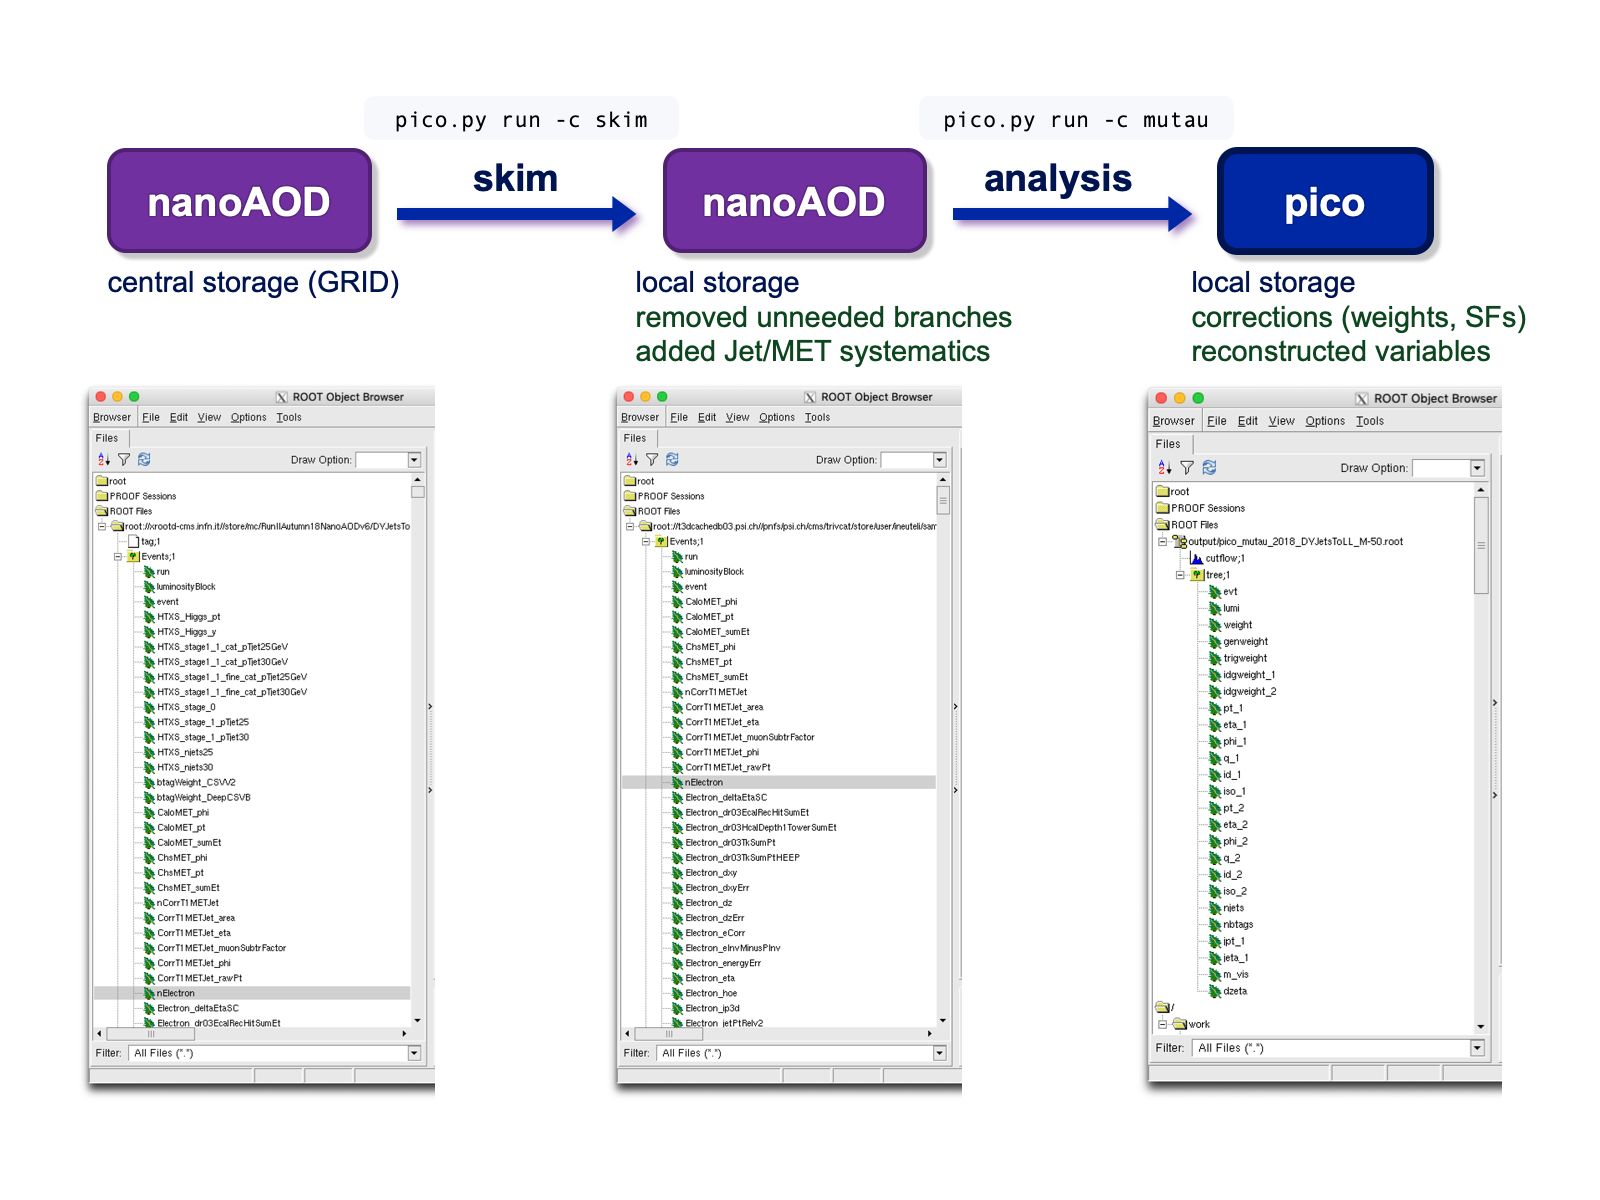
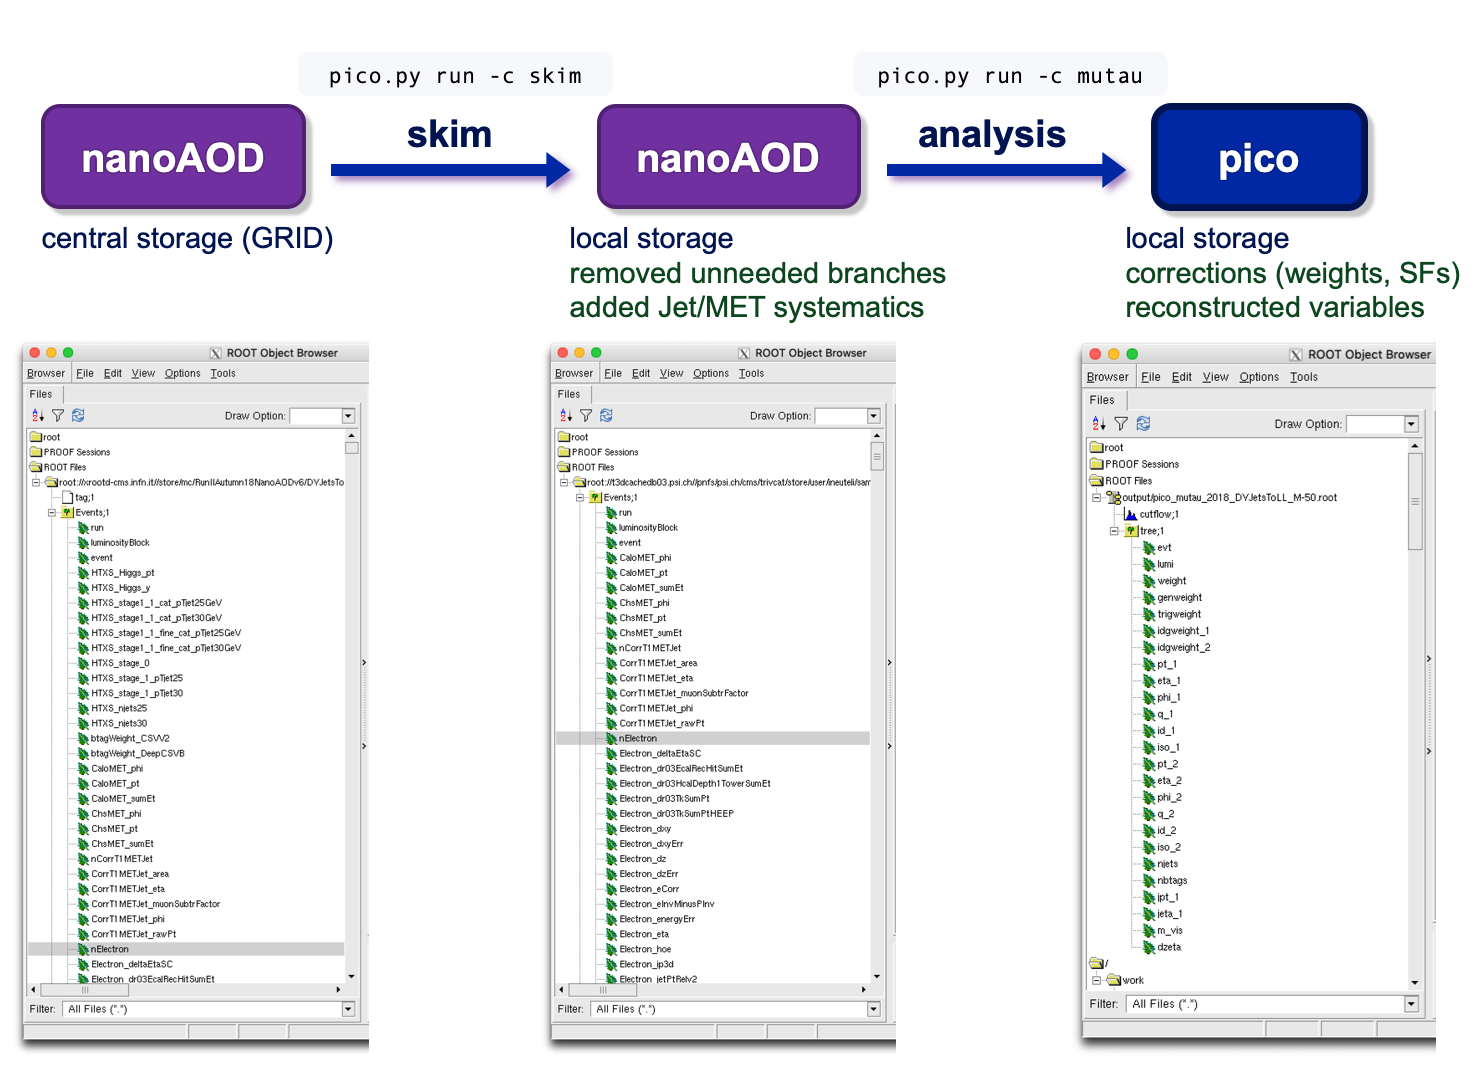
fix figures

diff --git a/PicoProducer/python/analysis/README.md b/PicoProducer/python/analysis/README.md
@@ -9,7 +9,7 @@ The analysis modules are run on nanoAOD with the [post-processors](https://githu
 for example with [`picojob.py`](../processors/skimjob.py).
 The output is a custom analysis ntuple, we refer to as the _pico_ format.
 
-#### Table of Contents  
+### Table of Contents  
 * [Run](#Run)<br>
 * [Accessing nanoAOD](#Accessing-nanoAOD)<br>
 * [Custom tree format](#Custom-tree-format)<br>
@@ -148,7 +148,9 @@ More information on data types:
 * In `ROOT`: https://root.cern.ch/doc/master/classTTree.html#addcolumnoffundamentaltypes
 * In `numpy`: https://numpy.org/devdocs/user/basics.types.html
 
-<img src="../../../docs/file_pico_mutau_simple.png" alt="Pico file of ModuleMuTauSimple" width="400"/>
+<p align="center">
+  <img src="../../../docs/file_pico_mutau_simple.png" alt="Pico file of ModuleMuTauSimple" width="700"/>
+</p>
 
 To make your life easier, you can use separate "tree producer" classes.
 For example, [`TreeProducer`](TreeProducer.py) can be subclassed as in [`TreeProducerMuTau.py`](TreeProducerMuTau.py).
@@ -204,8 +206,9 @@ class ModuleMuTau(ModuleTauPair):
     return True
 ```
 
-
-<img src="../../../docs/cutflow.png" alt="Cutflow (mutau)" width="400"/>
+<p align="center">
+  <img src="../../../docs/cutflow.png" alt="Cutflow (mutau)" width="600"/>
+</p>
 
 ## Tau pair analysis
 A set of full analysis modules for the basic study of events with a pair of tau decay candidates

diff --git a/Plotter/README.md b/Plotter/README.md
@@ -1,6 +1,6 @@
 # TauFW Plotter
 
-#### Table of Contents  
+### Table of Contents  
 * [Installation](#Installation)<br>
 * [Basic plots](#Basic-plots)<br>
 * [CMS style](#CMS-style)<br>
@@ -23,8 +23,10 @@ plot.setlegend()
 plot.saveas("plot.png")
 plots.close
 ```
-<img src="../docs/testHists_ratio_logy.png" alt="Gaussians with Plot class" width="420"/>
 
+<p align="center">
+  <img src="../docs/testHists_ratio_logy.png" alt="Gaussians with Plot class" width="420"/>
+</p>
 
 If you want to make a data-MC comparison between a data histogram `datahist` and
 a list of expected SM processes, `exphists`,
@@ -45,8 +47,8 @@ test/plotHists.py
 test/plotStacks.py
 ```
 
-<p float="middle">
-  <img src="../docs/testStacks_m_vis_ratio.png" alt="Data-MC with Stack class" width="420"/>
+<p align="center">
+  <img src="../docs/testStacks_m_vis_ratio.png" alt="Data-MC with Stack class" width="420" hspace="20"/>
   <img src="../docs/testStacks_njets_ratio_logy.png" alt="Data-MC comparison with Stack class" width="420"/>
 </p>
 

diff --git a/README.md b/README.md
@@ -37,8 +37,8 @@ scram b
 ```
 
 ### Fitter and Combine tools
-If you want to use the Combine tools in `Fitter`, install
-[Combine](https://cms-analysis.github.io/HiggsAnalysis-CombinedLimit/#setting-up-the-environment-and-installation),
+If you want to use the `Combine` tools in `Fitter`, install
+[`Combine`](https://cms-analysis.github.io/HiggsAnalysis-CombinedLimit/#setting-up-the-environment-and-installation),
 ```
 cd $CMSSW_BASE/src
 git clone https://github.com/cms-analysis/HiggsAnalysis-CombinedLimit.git HiggsAnalysis/CombinedLimit

diff --git a/PicoProducer/README.md b/PicoProducer/README.md
@@ -16,7 +16,8 @@ You can link several skimming or analysis codes to _channels_.
 
 <img src="../docs/PicoProducer_workflow.png" alt="TauFW PicoProducer workflow" max-width="800"/>
 
-#### Table of Contents  
+
+### Table of Contents  
 * [Installation](#Installation)<br>
 * [Configuration](#Configuration)<br>
   * [Skimming](#Skimming)
